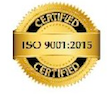
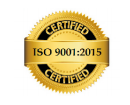
images resolution changed

diff --git a/public/style.css b/public/style.css
@@ -17,7 +17,7 @@ body
     border: 4px solid red;
     height: auto;
     width: 1100px;
-    height: 690px;
+    height: 770px;
 }
 
 .middle
@@ -28,18 +28,18 @@ body
 
 h1
 {
-    font-size: 65px;
+    font-size: 70px;
     text-transform: uppercase;
     font-family: c;
-    letter-spacing: 1px;
-    margin-top: -20px;
+    letter-spacing: 3px;
+    margin-top: px;
 }
 h2
 {
-    font-size: 35px;
+    font-size: 30px;
     text-transform: uppercase;
     font-family:c;
-    letter-spacing: 0.1px;
+    letter-spacing: 1px;
     padding: 1px;
     margin-top: -15px;
 }
@@ -81,19 +81,20 @@ h2
 .txt
 {
     text-transform: uppercase;
-    font-size: 15px;
+    font-size: 20px;
     margin-top: -10px;
     font-family:c;
     color: white;
-    font-weight: 800;
+    font-weight: 400;
     width: auto;
-    letter-spacing: 1px;
+    letter-spacing: 2px;
     padding-left: -1px;
     margin: auto;
     align-content: center;
     background: red;
-    padding: 8px;
+    padding: 10px;
     display: inline-block;
+    width: 620px;
 }
 
 
@@ -107,7 +108,7 @@ h2
 }
 .new1
 {
-    margin-top: 135px;
+    margin-top: 155px;
     width:auto;
     border-top: 1.5px solid brown; 
     margin-left: -10px;
